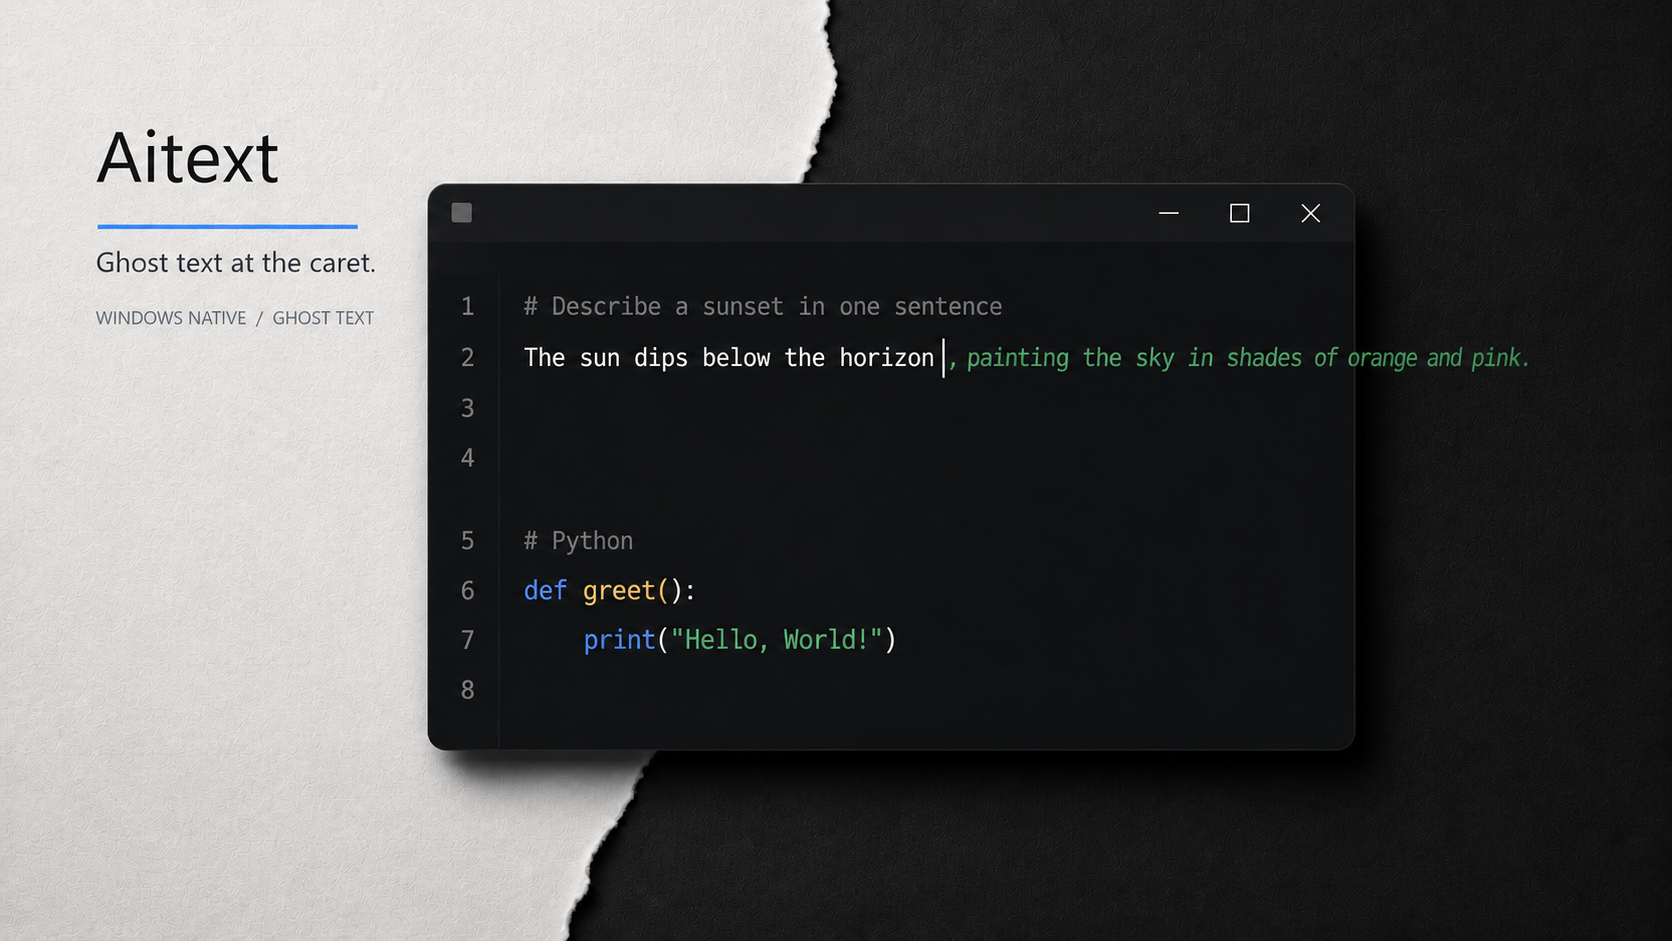
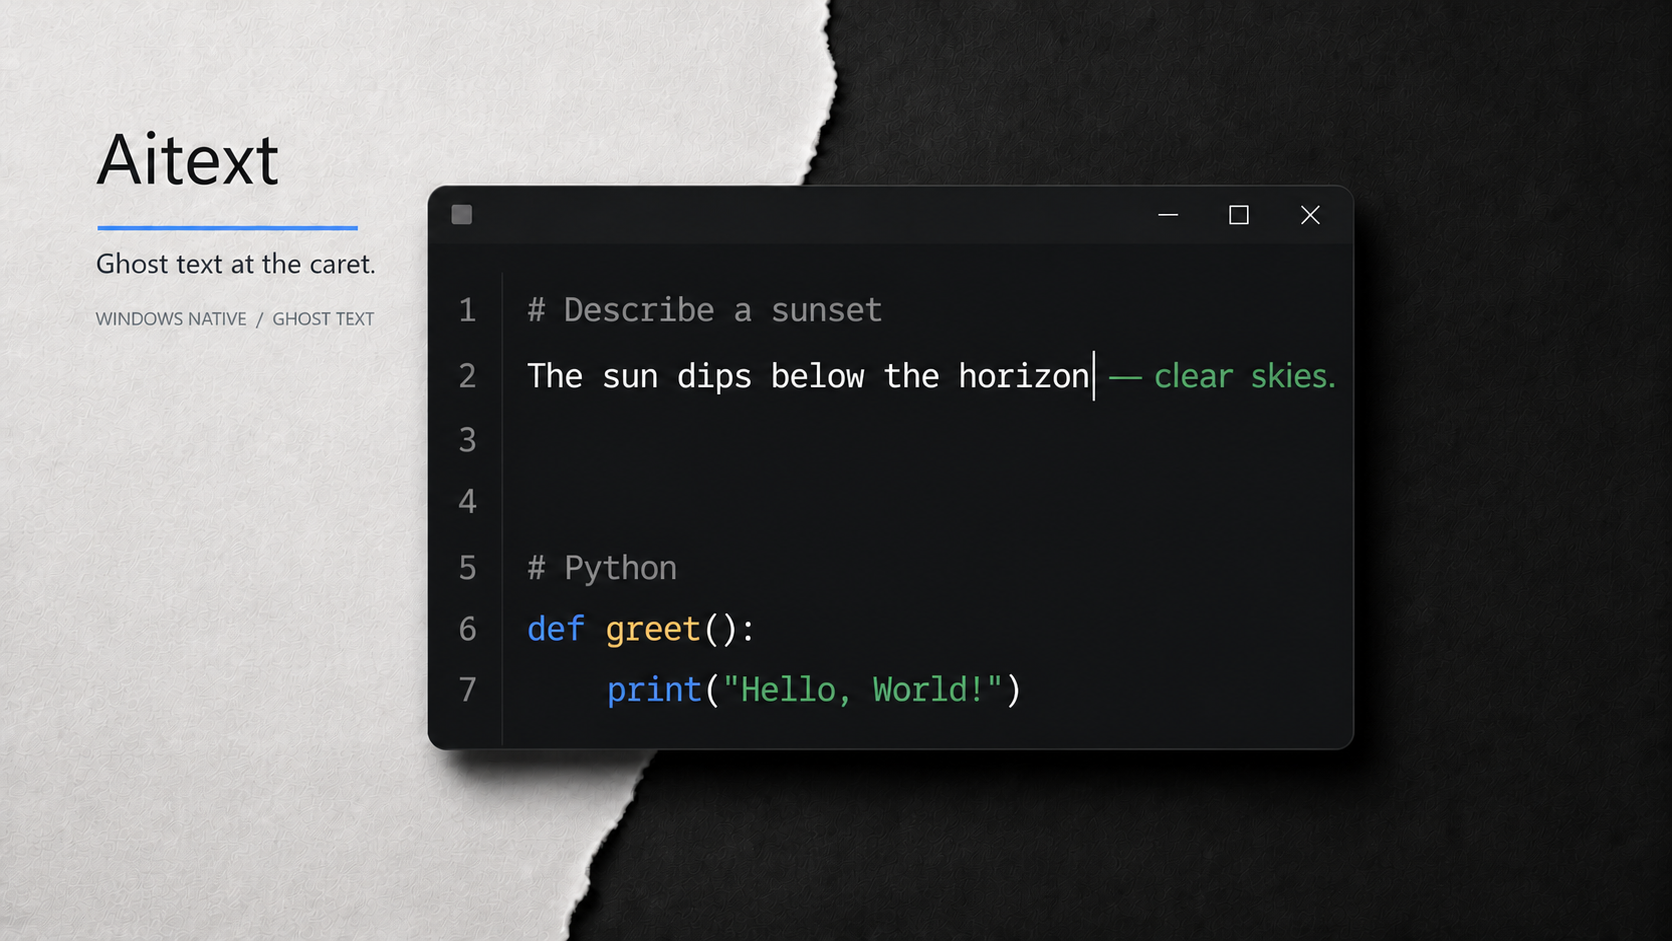
docs: animate ghost text reveal

diff --git a/docs/media/README.md b/docs/media/README.md
@@ -3,9 +3,9 @@
 The Paper Cut base scene was generated with the built-in image generation tool and refined from the approved `aitext-hero.png` reference. The prompt required a matte black/white paper split, a compact editor instrument, blue focus, green ghost text, a neutral gray divider, no orange line, and no watermark. The final editor text is intentionally explicit rather than abstract: each language variant shows a natural-language ghost continuation and a Python `print("Hello, World!")` completion.
 
 - `aitext-paper-cut-base.png`: generated base scene kept for provenance.
-- `hero-en.png`: English Paper Cut hero with a readable sentence suggestion and `print("Hello, World!")` inside the editor.
+- `hero-en.png`: English Paper Cut hero with a short readable sentence suggestion and `print("Hello, World!")` inside the editor.
 - `hero-zh-CN.png`: Simplified Chinese Paper Cut hero with `今天的天气` plus a green continuation and the same Python completion.
-- `demo-en.gif`: six-frame, 5 fps English editor showcase with the caret blinking beside the ghost suggestion, 1200×675.
-- `demo-zh-CN.gif`: six-frame, 5 fps Simplified Chinese editor showcase with the caret blinking beside the ghost suggestion, 1200×675.
+- `demo-en.gif`: 16-frame, 8 fps English editor showcase where ` — clear skies.` appears character by character after the caret, 1200×675.
+- `demo-zh-CN.gif`: 12-frame, 8 fps Simplified Chinese editor showcase where `，阳光明媚，适合出门。` appears character by character after the caret, 1200×675.
 
-The animated frames are illustrative showcase material, not a live API capture. The green continuation communicates the product interaction while avoiding a claim about a specific model response. Bitmap backgrounds were generated with the built-in imagegen tool; exact language examples and the caret animation were assembled locally with ffmpeg so README text stays legible and deterministic.
+The animated frames are illustrative showcase material, not a live API capture. The green continuation communicates the product interaction while avoiding a claim about a specific model response. Bitmap backgrounds were generated with the built-in imagegen tool; exact language examples and the character-by-character reveal were assembled locally with ffmpeg so README text stays legible and deterministic.

diff --git a/progress.md b/progress.md
@@ -67,8 +67,9 @@
 ## 2026-08-20 — README showcase readability revision
 
 - Replaced both Paper Cut hero images with readable editor examples: a natural-language ghost continuation plus a Python `print("Hello, World!")` completion.
-- Updated both English and Simplified Chinese GIFs to use the same visible examples with a blinking caret, rather than abstract placeholder bars.
-- Verified PNG dimensions (1672×941), GIF dimensions (1200×675), six GIF frames at 5 fps, and clean `git diff --check`. No application or desktop automation was used.
+- Updated both English and Simplified Chinese GIFs to reveal the green ghost continuation character by character, rather than only blinking the caret.
+- Shortened the English showcase continuation so it remains fully inside the editor window, while retaining the visible `print("Hello, World!")` completion.
+- Verified PNG dimensions (1672×941), GIF dimensions (1200×675), 16/12 GIF frames at 8 fps, and clean `git diff --check`. No application or desktop automation was used.
 
 ## 2026-08-20 — Aitext v0.1.0 formal release planning
 
